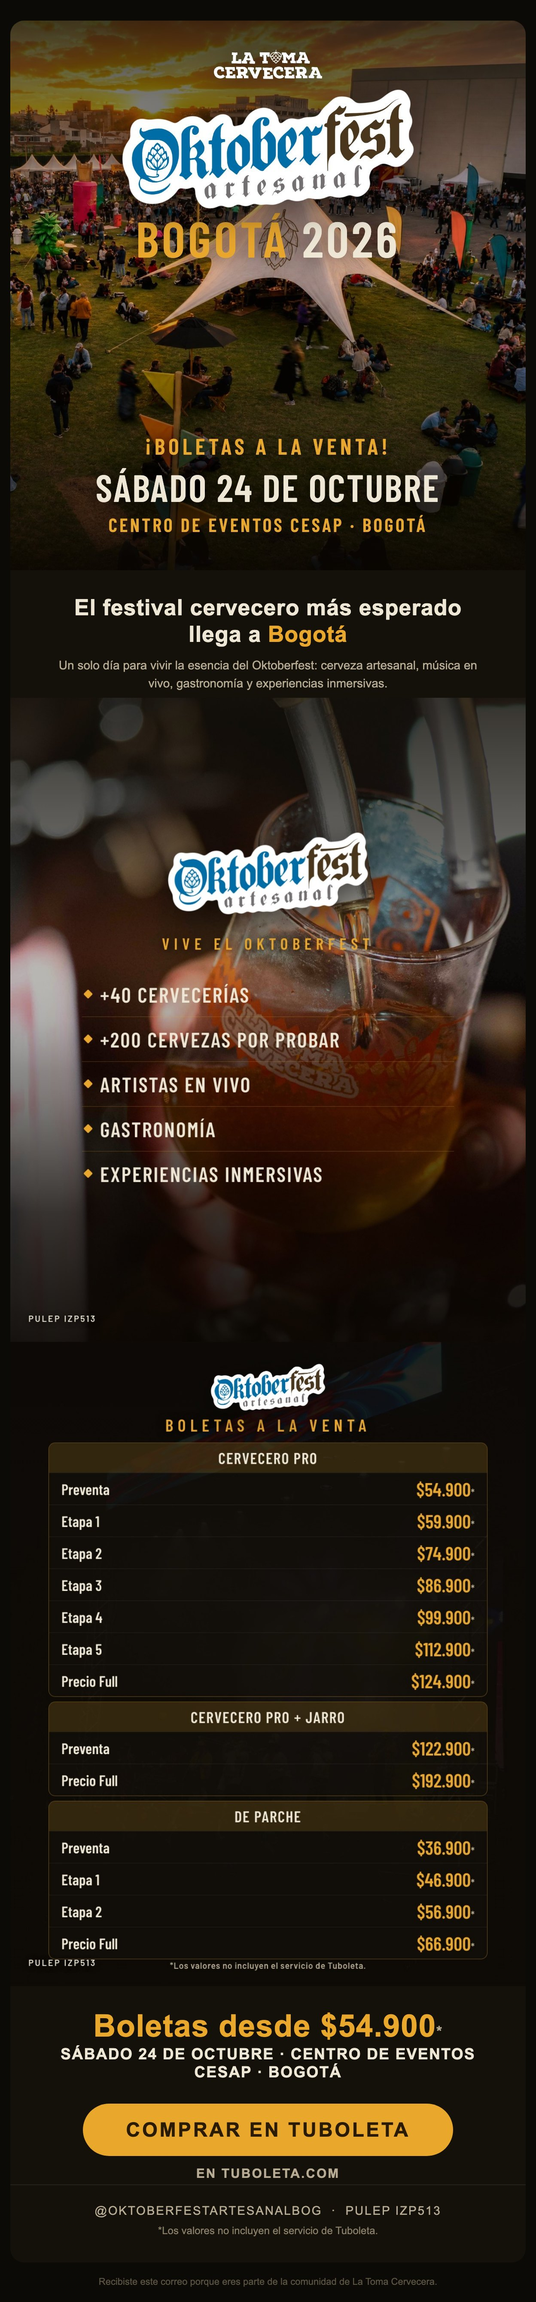
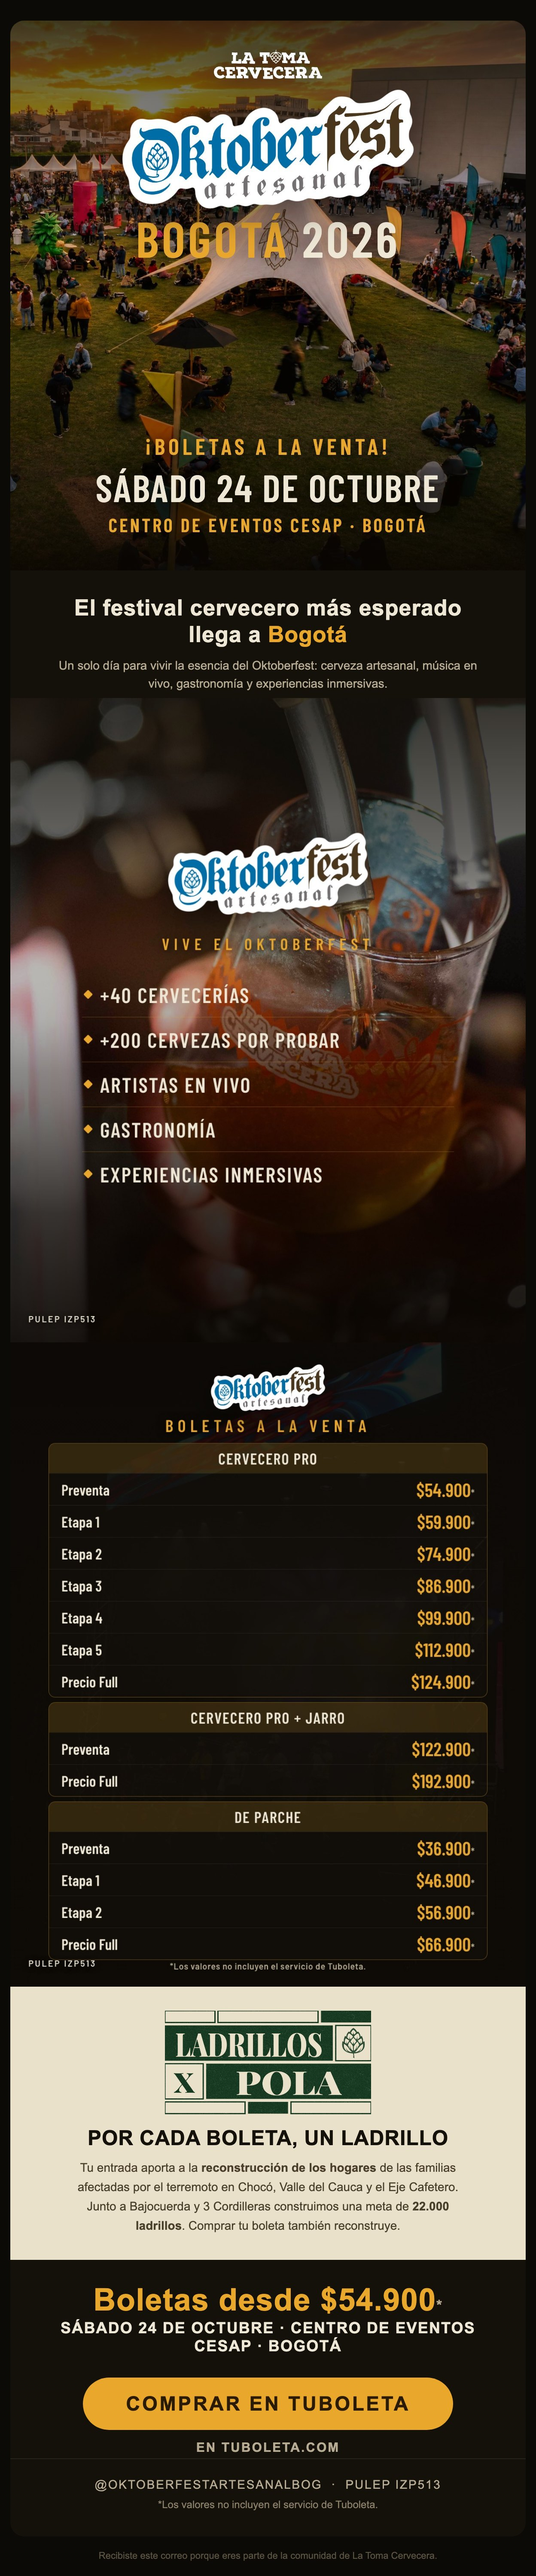
feat: franja Ladrillos por Pola en el email (sello + explicación)
Agrega el programa solidario 'Ladrillos por Pola' al email: franja crema con el
sello oficial y el mensaje (por cada boleta un ladrillo para la reconstrucción;
meta 22.000; aliados Bajocuerda y 3 Cordilleras).

diff --git a/piezas-bogota/renders/email/email-oktoberfest-bogota.html b/piezas-bogota/renders/email/email-oktoberfest-bogota.html
@@ -30,6 +30,23 @@
       <img src="https://raw.githubusercontent.com/jdbeuth83/propuesta-oktoberfest-2026/claude/tuboleta-piezas-bogota/piezas-bogota/renders/campana-lanzamiento/carrusel-2-boleteria.jpg" width="600" alt="Boletas a la venta: Cervecero Pro, Cervecero Pro + Jarro y De Parche" style="display:block;width:100%;max-width:600px;height:auto;border:0;">
     </a></td></tr>
 
+    <tr><td style="padding:0;">
+      <table role="presentation" width="100%" cellpadding="0" cellspacing="0" bgcolor="#EAE1CB" style="background:#EAE1CB;">
+        <tr><td style="padding:28px 46px;text-align:center;">
+          <img src="https://raw.githubusercontent.com/jdbeuth83/propuesta-oktoberfest-2026/claude/tuboleta-piezas-bogota/piezas-bogota/renders/email/ladrillos-por-pola-sello.png" width="240" alt="Ladrillos por Pola"
+            style="display:block;margin:0 auto 14px;width:240px;max-width:70%;height:auto;border:0;">
+          <div style="font-family:'Barlow Condensed',Arial,sans-serif;font-size:24px;font-weight:700;
+            color:#14110B;letter-spacing:.02em;text-transform:uppercase;">Por cada boleta, un ladrillo</div>
+          <div style="font-family:Arial,Helvetica,sans-serif;font-size:14px;line-height:1.6;color:#4a3f2a;
+            max-width:460px;margin:10px auto 0;">
+            Tu entrada aporta a la <b>reconstrucción de los hogares</b> de las familias afectadas por el
+            terremoto en Chocó, Valle del Cauca y el Eje Cafetero. Junto a Bajocuerda y 3 Cordilleras
+            construimos una meta de <b>22.000 ladrillos</b>. Comprar tu boleta también reconstruye.
+          </div>
+        </td></tr>
+      </table>
+    </td></tr>
+
     <tr><td style="padding:26px 44px 4px;text-align:center;">
       <div style="font-family:'Barlow Condensed',Arial,sans-serif;font-size:36px;font-weight:700;color:#E9A72C;
         letter-spacing:.02em;">Boletas desde $54.900<span style="font-size:17px;color:#B7AC93;">*</span></div>

diff --git a/piezas-bogota/build-email.py b/piezas-bogota/build-email.py
@@ -40,6 +40,8 @@ HERO = du(REPO_AS / "hero-sunset.jpg", "image/jpeg")
 OKT = du(WORK_AS / "okt-logo-hires.png", "image/png")
 LATOMA = du(WORK_AS / "latoma-blanco-hires.png", "image/png")
 TUBO = du(WORK_AS / "tuboleta-blanco.png", "image/png")
+SELLO = du(WORK_AS / "ladrillos-sello.png", "image/png")
+SELLO_URL = RAW + "email/ladrillos-por-pola-sello.png"
 FONTS_CSS = (REPO_AS / "fonts.css").read_text(encoding="utf-8")
 
 
@@ -127,7 +129,26 @@ def img_block(src, alt):
     </a></td></tr>"""
 
 
-def email_html(hero_src, exp_src, bol_src):
+def franja_ladrillos(sello_src):
+    return f"""<tr><td style="padding:0;">
+      <table role="presentation" width="100%" cellpadding="0" cellspacing="0" bgcolor="#EAE1CB" style="background:#EAE1CB;">
+        <tr><td style="padding:28px 46px;text-align:center;">
+          <img src="{sello_src}" width="240" alt="Ladrillos por Pola"
+            style="display:block;margin:0 auto 14px;width:240px;max-width:70%;height:auto;border:0;">
+          <div style="font-family:'Barlow Condensed',Arial,sans-serif;font-size:24px;font-weight:700;
+            color:#14110B;letter-spacing:.02em;text-transform:uppercase;">Por cada boleta, un ladrillo</div>
+          <div style="font-family:Arial,Helvetica,sans-serif;font-size:14px;line-height:1.6;color:#4a3f2a;
+            max-width:460px;margin:10px auto 0;">
+            Tu entrada aporta a la <b>reconstrucción de los hogares</b> de las familias afectadas por el
+            terremoto en Chocó, Valle del Cauca y el Eje Cafetero. Junto a Bajocuerda y 3 Cordilleras
+            construimos una meta de <b>22.000 ladrillos</b>. Comprar tu boleta también reconstruye.
+          </div>
+        </td></tr>
+      </table>
+    </td></tr>"""
+
+
+def email_html(hero_src, exp_src, bol_src, sello_src):
     return f"""<!doctype html>
 <html lang="es"><head><meta charset="utf-8">
 <meta name="viewport" content="width=device-width,initial-scale=1">
@@ -153,6 +174,8 @@ def email_html(hero_src, exp_src, bol_src):
 
     {img_block(exp_src, "Todo esto te espera: +40 cervecerías, +200 cervezas por probar, artistas en vivo, gastronomía y experiencias inmersivas")}
     {img_block(bol_src, "Boletas a la venta: Cervecero Pro, Cervecero Pro + Jarro y De Parche")}
+
+    {franja_ladrillos(sello_src)}
 
     <tr><td style="padding:26px 44px 4px;text-align:center;">
       <div style="font-family:'Barlow Condensed',Arial,sans-serif;font-size:36px;font-weight:700;color:#E9A72C;
@@ -188,7 +211,8 @@ def main():
     full_img = OUT / "email-oktoberfest-bogota.jpg"
     html_img = email_html(du(hero_jpg, "image/jpeg"),
                           du(CAMP / "carrusel-3-experiencias.jpg", "image/jpeg"),
-                          du(CAMP / "carrusel-2-boleteria.jpg", "image/jpeg"))
+                          du(CAMP / "carrusel-2-boleteria.jpg", "image/jpeg"),
+                          SELLO)
     # medir alto: render a ventana alta y recortar sólido inferior
     src = OUT / ".build.html"; png = OUT / ".build.png"; src.write_text(html_img, encoding="utf-8")
     subprocess.run([CHROME, "--headless=new", "--no-sandbox", "--disable-gpu", "--hide-scrollbars",
@@ -208,7 +232,7 @@ def main():
     print("correo (imagen)", im.size, f"{full_img.stat().st_size/1024:.0f} KB")
     # 3) HTML enviable (imágenes por URL pública de GitHub raw)
     (OUT / "email-oktoberfest-bogota.html").write_text(
-        email_html(HERO_URL, IMG_EXP_URL, IMG_BOL_URL), encoding="utf-8")
+        email_html(HERO_URL, IMG_EXP_URL, IMG_BOL_URL, SELLO_URL), encoding="utf-8")
     print("HTML enviable escrito")
 
 
